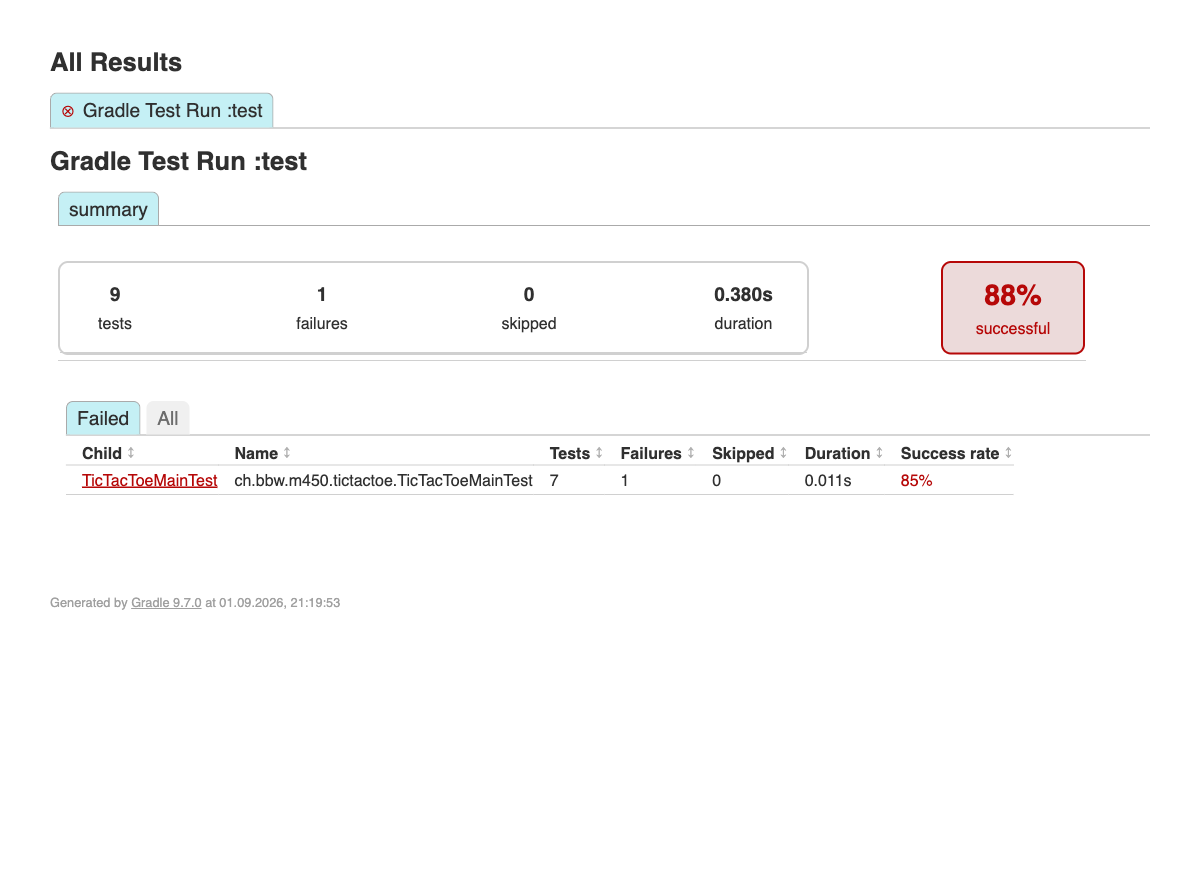
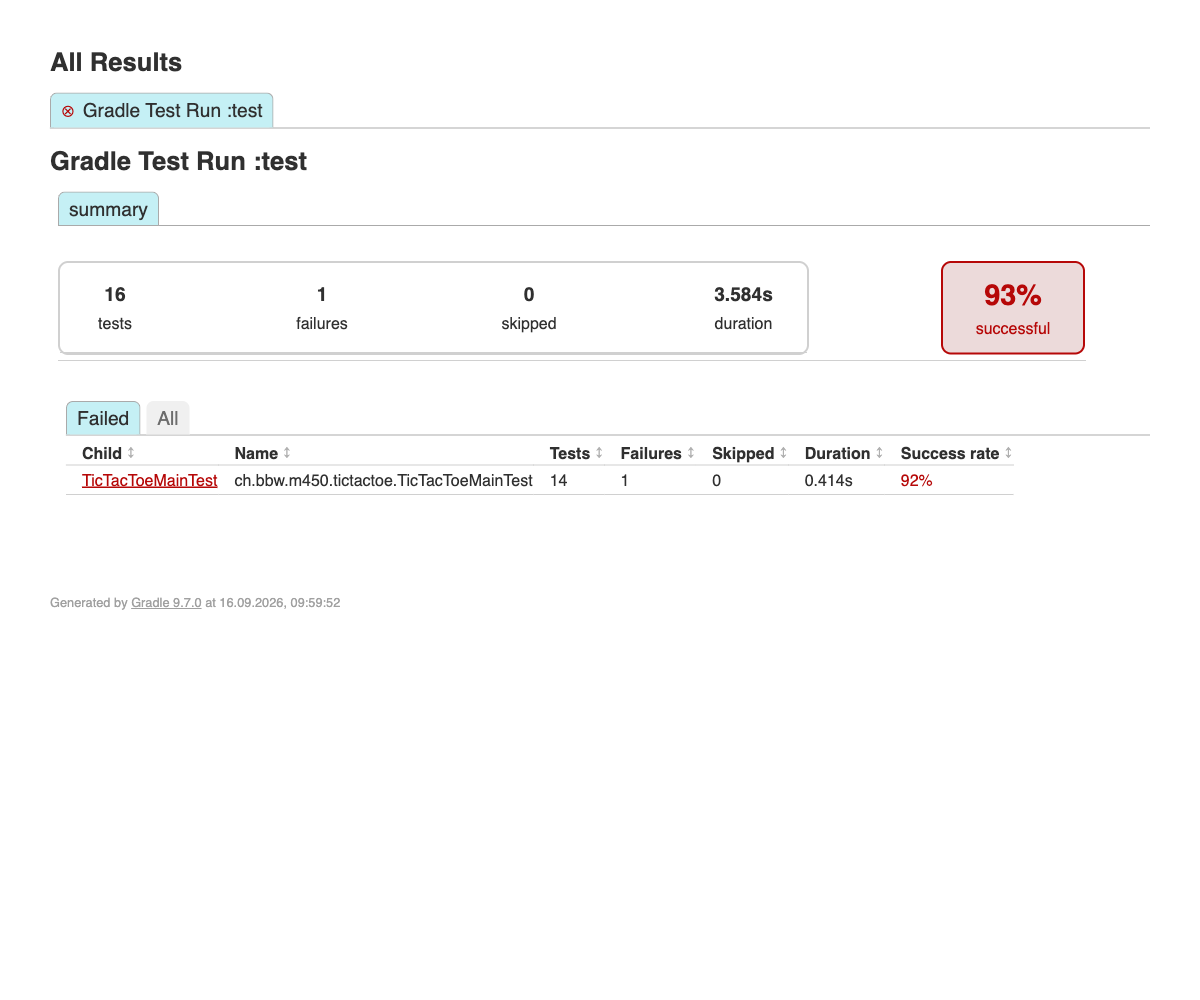
docs: Testkonzept auf aktuellen Stand (36 Tests, 100% Branch-Coverage)

Changed region(s): [[0.0308, 0.0311, 0.9558, 0.6214], [0.0308, 0.6835, 0.2775, 0.7146]]

diff --git a/docs/TESTING.md b/docs/TESTING.md
@@ -1,98 +1,91 @@
-# Testkonzept – TicTacToe (Modul 450)
+# Testkonzept – TicTacTest (Modul 450)
 
-Dieses Dokument beschreibt den **aktuellen Stand** der Test-Suite: was getestet wird,
-mit welchen Werkzeugen und nach welcher Strategie. Es dokumentiert nur die bereits
-umgesetzten Tests, keine geplanten Erweiterungen.
+**Projekt:** TicTacTest (TicTacToe-Spiel-Engine in Java)
+**Dokument-Version:** 0.3 (IST)
+**Autor / Rolle:** Duarte Santos – Entwickler = Tester (bewertete Einzelarbeit)
+**Repository:** `DuarteSantos8/450-tictactest-mvk`
 
-## 1. Ziel und Testgegenstand
+Dieses Dokument beschreibt den **aktuellen IST-Zustand** der Test-Suite: was getestet wird,
+mit welchen Werkzeugen, nach welcher Strategie und mit welchen Erfolgskriterien. Es
+dokumentiert nur die bereits umgesetzten Tests, keine geplanten Erweiterungen.
 
-Getestet wird die Spiel-Engine in `TicTacToeMain`:
+## 1. Einleitung
 
-- **`isWin(Stone[] board, Stone color)`** – die Sieg-Erkennung: hat eine Farbe drei in
-  einer Linie? Das ist eine reine Funktion über ein beliebiges Brett und der Kern der
-  Test-Suite.
+Getestet wird das ganze Spiel: die Spiel-Engine `TicTacToeMain` und alle Player.
+
+- **`isWin(Stone[] board, Stone color)`** – Sieg-Erkennung: hat eine Farbe drei in einer
+  Linie? Eine reine Funktion über ein beliebiges Brett und Herzstück der Test-Suite.
 - **`play(TicTacToePlayer xPlayer, TicTacToePlayer oPlayer)`** – der Spielablauf: eine
-  komplette Partie sowie die Vorbedingung, dass beide Spieler verschieden sein müssen.
+  komplette Partie, Sieg, Unentschieden, ungültige Züge und die Vorbedingung, dass beide
+  Spieler verschieden sein müssen.
+- **`toString(...)`** und **`main(...)`** – Bildschirmausgabe und Programmstart.
+- **`HumanPlayer`** (liest von der Tastatur), **`GreedyPlayer`** und der neue, perfekt
+  spielende **`PerfectPlayer`** (Minimax-Algorithmus).
 
-Nicht Teil des aktuellen Stands sind `HumanPlayer` (liest von der Tastatur) und
-`TicTacToeMain.toString(...)` (reine Bildschirmausgabe) – diese werden noch nicht
-automatisiert getestet.
+## 2. Testziele
 
-Werkzeuge: **JUnit 5** (Jupiter, verwaltet über `junit-bom:5.11.4`) und **AssertJ 3.27.7**,
-gebaut mit **Gradle**.
+Die Ziele sind nummeriert, damit die Testfälle (Abschnitt 7) darauf verweisen können.
 
-## 2. Teststrategie
+- **TZ-01:** `isWin` erkennt alle acht möglichen Siegeslinien für die richtige Farbe.
+- **TZ-02:** `isWin` meldet für Bretter ohne Linie (oder für die falsche Farbe) korrekt „kein Sieg".
+- **TZ-03:** `play` spielt eine vollständige Partie zweier `GreedyPlayer`; der Startspieler X gewinnt.
+- **TZ-04:** `play` weist zwei identische Spieler-Instanzen mit einer `IllegalArgumentException` ab.
+- **TZ-05:** `play` erkennt ein Unentschieden und bricht bei ungültigen Zügen mit einer
+  `IllegalStateException` ab.
+- **TZ-06:** Ein-/Ausgabe funktioniert: `HumanPlayer` liest die Eingabe, `toString` und `main`
+  geben das Brett richtig aus (StdIn/StdOut-Tests mit Pioneer).
+- **TZ-07:** Der `PerfectPlayer` verliert nie und blockt, wenn der Gegner gewinnen könnte.
+- **TZ-08:** Mindestens 90 % Branch-Coverage (wird im Build erzwungen).
 
-- **Given-When-Then** als Namens- und Aufbauschema: jeder Testmethodenname sagt Ausgangslage,
+## 3. Teststrategie und Teststufen
+
+**Teststufe:** automatisierte **Unit-Tests** (JUnit + AssertJ). Dazu kommen:
+
+- **StdIn/StdOut-Tests mit Pioneer:** `@StdIo` ersetzt die Tastatur-Eingabe und fängt die
+  Konsolen-Ausgabe ab (`HumanPlayerTest`, `main` und `play` in `TicTacToeMainTest`).
+- **Property-based Tests mit jqwik** (zusätzliches Testframework): jqwik erzeugt viele
+  zufällige Eingaben und prüft, dass eine Regel immer stimmt (`PerfectPlayerProperties`).
+- **Mutation Testing mit PITest:** PITest baut absichtlich Fehler in den Code ein (z.B. `<`
+  statt `<=`) und schaut, ob ein Test rot wird. Wird kein Test rot, ist der Test zu schwach.
+- **Coverage-Verification mit JaCoCo:** der Build schlägt fehl, wenn die Branch-Coverage
+  unter 90 % fällt.
+
+Angewendete Prinzipien:
+
+- **Given-When-Then** als Namens- und Aufbauschema: der Methodenname nennt Ausgangslage,
   Aktion und Erwartung; im Rumpf sind die drei Blöcke durch Leerzeilen getrennt.
 - **AssertJ fluent-Assertions** statt roher `assertTrue(...)`: die Testklasse implementiert
   `WithAssertions`, damit `assertThat(...)` und `assertThatThrownBy(...)` direkt verfügbar sind.
-- **Fixtures für Isolation**: benannte Board-Konstanten statt magischer Strings, und vor jeder
-  Testmethode frische Spieler-Instanzen.
-- **Parameterized Test gegen Coderepetition**: die acht Siegeslinien und die Nicht-Sieg-Fälle
+- **Fixtures für Isolation:** benannte Board-Konstanten statt magischer Strings und vor jeder
+  Testmethode frische Spieler-Instanzen (`@BeforeEach`).
+- **Parameterized Test gegen Coderepetition:** die acht Siegeslinien und die Nicht-Sieg-Fälle
   laufen über *eine* Methode statt über je einen Test pro Brett.
 
-## 3. Setup (JUnit 5 + AssertJ)
+### Fixtures und Helper
 
-Gradle-Projekt (`build.gradle`) mit folgenden Test-Abhängigkeiten:
-
-```groovy
-dependencies {
-    testImplementation platform('org.junit:junit-bom:5.11.4')
-    testImplementation 'org.junit.jupiter:junit-jupiter'
-    testImplementation 'org.assertj:assertj-core:3.27.7'
-    testRuntimeOnly 'org.junit.platform:junit-platform-launcher'
-}
-
-test {
-    useJUnitPlatform()
-}
-```
-
-Tests ausführen: `./gradlew test`
-Report danach unter: `build/reports/tests/test/index.html`
-
-Der Parameterized Test braucht keine zusätzliche Abhängigkeit: `org.junit.jupiter:junit-jupiter`
-ist ein Sammel-Artefakt und enthält `junit-jupiter-params` bereits.
-
-## 4. Dummy-Tests
-
-Datei: [`DummyTest.java`](../src/test/java/ch/bbw/m450/tictactoe/DummyTest.java)
-Zweck: rein technischer Nachweis, dass JUnit 5 und AssertJ korrekt eingebunden sind (keine TicTacToe-Logik).
-
-| Test | Given | When | Then |
-|---|---|---|---|
-| `dummyJUnitTest` | zwei Ganzzahlen 1 und 1 | die Summe gebildet wird | ist das Ergebnis 2 (geprüft mit JUnit `assertTrue`) |
-| `dummyAssertJTest` | zwei Ganzzahlen 1 und 1 | die Summe gebildet wird | ist das Ergebnis 2 (geprüft mit AssertJ `assertThat(...).isEqualTo(...)`) |
-
-## 5. Fixtures und Helper
-
-Datei: [`TicTacToeMainTest.java`](../src/test/java/ch/bbw/m450/tictactoe/TicTacToeMainTest.java)
-
-Der Testcode benutzt zwei Arten von Fixtures – also festen Ausgangszuständen, die jeder Test gleich vorfindet – und einen Helper. Alle drei stehen in der Testklasse selbst, weil sie ausserhalb der Tests niemandem nützen.
-
-**Board-Fixtures** – benannte Konstanten statt magischer Strings mitten im Test. Ein Brett wird als Muster geschrieben, `X` = Kreuz, `O` = Kreis, `.` = leeres Feld; die Leerzeichen trennen nur die drei Zeilen:
+**Board-Fixtures** – benannte Konstanten. Ein Brett wird als Muster geschrieben, `X` = Kreuz,
+`O` = Kreis, `.` = leeres Feld; die Leerzeichen trennen nur die drei Zeilen:
 
 ```java
 private static final String DIAGONAL_X_WINS = "XOO OX. XOX";
 private static final String DRAW_BOARD = "XOX XXO OXO";
 ```
 
-**Spieler-Fixture** – `@BeforeEach setUp()` legt vor *jeder* Testmethode zwei frische `GreedyPlayer` an, damit kein Test von einer Partie eines anderen Tests beeinflusst wird:
+**Spieler-Fixture** – `@BeforeEach setUp()` legt vor *jeder* Testmethode zwei frische
+`GreedyPlayer` an, damit kein Test von einer Partie eines anderen Tests beeinflusst wird.
 
-```java
-@BeforeEach
-void setUp() {
-    xPlayer = new GreedyPlayer();
-    oPlayer = new GreedyPlayer();
-}
-```
+**Helper** – `Boards.toBoard(...)` übersetzt so ein Muster in das `Stone[]` mit neun Feldern,
+das das Spiel erwartet. Er liegt in einer eigenen Klasse, damit alle Testklassen ihn benutzen
+können (keine Coderepetition). Bei falscher Länge oder unbekanntem Zeichen wirft er eine
+`IllegalArgumentException`.
 
-**Helper** – `toBoard(...)` übersetzt so ein Muster in das `Stone[]` mit neun Feldern, das `TicTacToeMain.isWin(...)` erwartet. Ohne den Helper müsste in jedem Test ein Array von Hand aufgezählt werden, was das Brett unlesbar macht. Passt die Länge nicht oder steht ein unbekanntes Zeichen im Muster, wirft der Helper eine `IllegalArgumentException`.
+**Test-Player als Lambda** – `TicTacToePlayer` hat nur eine Methode, darum kann man einen
+Test-Player einfach als Lambda schreiben, z.B. einen „schummelnden“ Player, der immer auf
+Feld `-1` spielt. So braucht es kein Mocking-Framework.
 
-## 6. Parameterized Test
+### Parameterized Test
 
-Die Sieg-Erkennung wird nicht mehr mit einem Test pro Brett geprüft, sondern mit *einer* Testmethode über viele Board-Konstellationen:
+Die Sieg-Erkennung (TZ-01 / TZ-02) wird mit *einer* Methode über viele Konstellationen geprüft:
 
 ```java
 @ParameterizedTest(name = "{1} on \"{0}\" -> {2}")
@@ -107,67 +100,126 @@ void given_aBoard_when_isWinIsChecked_then_returnsWhetherThatColorHasALine(Strin
 }
 ```
 
-`@MethodSource("boardConstellations")` verweist auf eine statische Methode, die einen `Stream<Arguments>` liefert. Jedes `Arguments.of(muster, farbe, erwartet)` wird zu einem eigenen Testlauf, dessen drei Werte der Reihe nach in den drei Parametern landen. Aus 12 Einträgen werden also 12 Testläufe, die im Report einzeln erscheinen – dank `name = "{1} on \"{0}\" -> {2}"` mit lesbarem Titel wie `CROSS on "XXX ... ..." -> true`. Schlägt einer fehl, steht sofort da, welches Brett schuld ist.
+## 4. Testobjekte und Testabdeckung
 
-Geprüfte Konstellationen:
+| Testobjekt | Abgedeckt? | Testklasse | Bemerkung |
+|---|---|---|---|
+| `TicTacToeMain.isWin(...)` | ja | `TicTacToeMainTest` | alle acht Siegeslinien + Nicht-Sieg-Fälle |
+| `TicTacToeMain.play(...)` | ja | `TicTacToeMainTest` | Sieg, Unentschieden, ungültige Züge, gleiche Spieler |
+| `TicTacToeMain.toString(...)` | ja | `TicTacToeMainTest` | Ausgabe ohne Farbcodes verglichen |
+| `TicTacToeMain.main(...)` | ja | `TicTacToeMainTest` | mit Pioneer: Eingabe `3, 4, 5` → Mensch gewinnt |
+| `HumanPlayer` | ja | `HumanPlayerTest` | mit Pioneer: Eingabe lesen, Ausgabe prüfen, falsche Eingabe |
+| `GreedyPlayer` | ja | `GreedyPlayerTest` | volles Brett → Exception; sonst über `play(...)` |
+| `PerfectPlayer` | ja | `PerfectPlayerTest`, `PerfectPlayerProperties` | gewinnt gegen Greedy, blockt, verliert nie (jqwik) |
+| `Stone.opponent()` | ja | `TicTacToeMainTest` | beide Farben |
 
-| # | Muster | geprüfte Farbe | Erwartung | Was abgedeckt wird |
+**Gemessene Abdeckung (JaCoCo):**
+
+| Metrik | Wert | Ziel |
+|---|---|---|
+| Branch-Coverage | **100 %** (94 von 94) | min. 90 % (im Build erzwungen) |
+| Line-Coverage | **98.5 %** (67 von 68) | – |
+| Mutation Score (PITest) | **99 %** (72 von 73 Mutanten gekillt) | – |
+
+Die eine nicht abgedeckte Zeile ist der unsichtbare Standard-Konstruktor von `TicTacToeMain`
+(die Klasse hat nur statische Methoden, darum wird nie ein Objekt davon erstellt).
+
+Der eine überlebende Mutant ändert im `PerfectPlayer` `score > bestScore` zu `score >= bestScore`.
+Dann nimmt der Player bei gleich guten Zügen den letzten statt den ersten – er spielt aber
+genauso perfekt. Das ist ein **äquivalenter Mutant**, den kein Test erkennen kann.
+
+## 5. Testrahmen und Erfolgskriterien
+
+- **Wer testet:** der Entwickler selbst (Einzelarbeit).
+- **Wann wird getestet:** lokal bei jeder Änderung und automatisch bei jedem Push und Pull-Request
+  über GitHub Actions.
+- **Pass-Kriterium:** alle Tests laufen grün durch (`0 failures, 0 errors`) und die
+  Branch-Coverage ist mindestens 90 %.
+- **Fail-Kriterium / Abbruchbedingung:** ein einziger roter Test oder zu wenig Coverage lässt
+  die CI-Pipeline fehlschlagen; ein Pull-Request wird erst nach grünem Build gemergt.
+
+## 6. Testumgebung und Testinfrastruktur
+
+- **Sprache / Runtime:** Java 25 (Azul Zulu, bereitgestellt über den DevContainer).
+- **Build-Tool:** Gradle 9.7 (über den `./gradlew`-Wrapper).
+- **Testframeworks (aktuellste Versionen):** JUnit 6.1.3 (`junit-bom`), AssertJ 3.27.7,
+  JUnit Pioneer 2.3.0, jqwik 1.10.1, JaCoCo 0.8.15, PITest 1.30.0.
+- **Lokale Ausführung:**
+  - `./gradlew test` → Test-Report unter `build/reports/tests/test/index.html`,
+    Coverage-Report unter `build/reports/jacoco/test/html/index.html`
+  - `./gradlew check` → zusätzlich die Coverage-Verification (min. 90 % Branch)
+  - `./gradlew pitest` → Mutation-Report unter `build/reports/pitest/index.html`
+- **CI:** `.github/workflows/build.yml` (Schritte `build` und `test`, im DevContainer-Image).
+  Der Test-Job führt `./gradlew check pitest` aus und speichert Test-, Coverage- und
+  PITest-Report bei jedem Commit als Artifacts.
+- Der Parameterized Test braucht keine Zusatz-Abhängigkeit: `org.junit.jupiter:junit-jupiter`
+  ist ein Sammel-Artefakt und enthält `junit-jupiter-params` bereits.
+
+## 7. Testfallbeschreibungen
+
+| ID | Zielbezug | Voraussetzung | Schritt | Erwartetes Ergebnis |
 |---|---|---|---|---|
-| 1 | `XXX ... ...` | X | `true` | oberste Reihe (0-1-2) |
-| 2 | `... OOO ...` | O | `true` | mittlere Reihe (3-4-5) |
-| 3 | `... ... XXX` | X | `true` | unterste Reihe (6-7-8) |
-| 4 | `O.. O.. O..` | O | `true` | linke Spalte (0-3-6) |
-| 5 | `.X. .X. .X.` | X | `true` | mittlere Spalte (1-4-7) |
-| 6 | `..O ..O ..O` | O | `true` | rechte Spalte (2-5-8) |
-| 7 | `XOO OX. XOX` | X | `true` | Diagonale (0-4-8) |
-| 8 | `..O .O. O..` | O | `true` | Gegendiagonale (2-4-6) |
-| 9 | `... ... ...` | X | `false` | leeres Brett |
-| 10 | `XOX XXO OXO` | X | `false` | Unentschieden, X hat keine Linie |
-| 11 | `XOX XXO OXO` | O | `false` | dasselbe Brett aus Sicht von O |
-| 12 | `OOO XX. .X.` | X | `false` | eine Reihe gewinnt nur für die eigene Farbe |
+| TC-01 | TZ-01 | Brett `XXX ... ...` | `isWin(board, CROSS)` | `true` (oberste Reihe) |
+| TC-02 | TZ-01 | Brett `..O ..O ..O` | `isWin(board, CIRCLE)` | `true` (rechte Spalte) |
+| TC-03 | TZ-01 | Brett `XOO OX. XOX` | `isWin(board, CROSS)` | `true` (Diagonale 0-4-8) |
+| TC-04 | TZ-02 | leeres Brett `... ... ...` | `isWin(board, CROSS)` | `false` |
+| TC-05 | TZ-02 | Brett `OOO XX. .X.` | `isWin(board, CROSS)` | `false` (Linie gehört O, nicht X) |
+| TC-06 | TZ-03 | zwei frische `GreedyPlayer` | `play(xPlayer, oPlayer)` | Rückgabe `CROSS` (X gewinnt) |
+| TC-07 | TZ-04 | dieselbe Spieler-Instanz als X und O | `play(xPlayer, xPlayer)` | `IllegalArgumentException` |
+| TC-08 | TZ-05 | zwei `PerfectPlayer` | `play(...)` | Rückgabe `null`, Ausgabe „it's a draw!“ |
+| TC-09 | TZ-05 | O spielt auf `-1`, `9` oder das besetzte Feld `0` | `play(greedy, cheater)` | `IllegalStateException` |
+| TC-10 | TZ-06 | Eingabe `" 4 "` | `HumanPlayer.play(...)` | Rückgabe `4`, Frage „where to to put…“ wird ausgegeben |
+| TC-11 | TZ-06 | Eingabe `abc` | `HumanPlayer.play(...)` | `NumberFormatException` |
+| TC-12 | TZ-06 | Brett `X.. .O. ...` | `toString(board)` | `X  1  2` / `3  O  5` / `6  7  8` |
+| TC-13 | TZ-06 | Eingabe `3, 4, 5` | `main(...)` | Ausgabe „...and the winner is: CROSS“ |
+| TC-14 | TZ-07 | `GreedyPlayer` gegen `PerfectPlayer` (beide Reihenfolgen) | `play(...)` | `PerfectPlayer` gewinnt |
+| TC-15 | TZ-07 | Brett `XX. .O. ...`, O ist dran | `PerfectPlayer.play(...)` | `2` (blockt) |
+| TC-16 | TZ-07 | zufälliger Gegner (50 Spiele, jqwik) | `play(random, perfect)` | der Zufalls-Player gewinnt nie |
+| TC-17 | TZ-08 | – | `./gradlew check` | Build grün, Branch-Coverage ≥ 90 % |
 
-Die Fälle 1–8 decken alle acht möglichen Siegeslinien ab. Dass manche dieser Bretter in einer echten Partie nie vorkommen können (`XXX ... ...` enthält kein einziges `O`), ist Absicht: `isWin` ist eine reine Funktion über ein beliebiges Brett, deshalb steht pro Siegeslinie das kleinstmögliche Muster.
+TC-01 bis TC-05 sind Beispiele aus den 12 Konstellationen des Parameterized Tests
+(`boardConstellations`); die vollständige Liste steht in `TicTacToeMainTest.java`.
 
-## 7. Einzeltests (Given-When-Then)
+## 8. Testplan und Zuständigkeiten
 
-Was sich nicht sinnvoll parametrisieren lässt, bleibt als eigener Test bestehen – beide benutzen die Spieler-Fixture:
+- **Zuständig:** Duarte Santos (Erstellung, Ausführung und Wartung der Tests).
+- **Ausführung:** automatisiert bei jedem Push / Pull-Request über GitHub Actions; zusätzlich
+  lokal vor jedem Commit.
+- **Ergebnisdokumentation:** Test-Report und JaCoCo-Coverage werden in der CI als Artifact
+  gespeichert; die Coverage-Entwicklung ist als Time-Series auf GitHub Pages sichtbar.
 
-| # | Test | Given | When | Then |
-|---|---|---|---|---|
-| 1 | `given_twoGreedyPlayers_when_aGameIsPlayed_then_theStartingPlayerWins` | zwei `GreedyPlayer`, die beide immer das oberste freie Feld wählen | eine komplette Partie gespielt wird (`TicTacToeMain.play`) | gewinnt der startende Spieler X über die Diagonale 0-4-8 |
-| 2 | `given_theSamePlayerTwice_when_aGameIsStarted_then_throwsIllegalArgumentException` | dieselbe `GreedyPlayer`-Instanz als X- und O-Spieler übergeben | eine Partie gestartet wird | wird eine `IllegalArgumentException` geworfen |
+## 9. Dummy-Tests
 
-## 8. Testumfang und Ausführung
+Datei: [`DummyTest.java`](../src/test/java/ch/bbw/m450/tictactoe/DummyTest.java) – rein
+technischer Nachweis, dass JUnit 5 und AssertJ korrekt eingebunden sind (keine TicTacToe-Logik,
+je einmal JUnit `assertEquals` und AssertJ `assertThat` nebeneinander).
 
-**Gesamt: 16 Tests** – 2 Dummy-Tests, 12 Läufe des Parameterized Tests und 2 Einzeltests. Die Assertions in `TicTacToeMainTest` laufen alle über AssertJ (`WithAssertions`); im `DummyTest` steht bewusst je einmal JUnit und AssertJ nebeneinander.
+## 10. Testumfang
 
-Lokal ausgeführt mit `./gradlew test` – zuletzt **16 Tests, 0 Fehler** (`DummyTest` 2, `TicTacToeMainTest` 14). Zusätzlich läuft bei jedem Push/Pull-Request die GitHub-Actions-Pipeline (`.github/workflows/build.yml`) mit den Schritten `build` und `test` in einem eigenen Container-Image; der Build ist grün.
+**Gesamt: 36 Tests**, zuletzt lokal mit `./gradlew check pitest` ausgeführt: **36 Tests, 0 Fehler**.
 
-## 9. Test-Code auf GitHub
+| Testklasse | Anzahl | Inhalt |
+|---|---|---|
+| `DummyTest` | 2 | Nachweis JUnit + AssertJ |
+| `TicTacToeMainTest` | 22 | 12 × Parameterized `isWin`, 3 × ungültiger Zug, 7 Einzeltests |
+| `HumanPlayerTest` | 3 | StdIn/StdOut mit Pioneer |
+| `GreedyPlayerTest` | 1 | volles Brett |
+| `PerfectPlayerTest` | 6 | 2 Spiele gegen Greedy, 3 × blocken, volles Brett |
+| `PerfectPlayerProperties` | 2 | jqwik-Properties (je 50 zufällige Durchläufe) |
 
-Repository: `DuarteSantos8/450-tictactest-mvk`
+Bei jedem Push/Pull-Request läuft zusätzlich die GitHub-Actions-Pipeline; der Build ist grün.
 
-- [`TicTacToeMainTest.java`](https://github.com/DuarteSantos8/450-tictactest-mvk/blob/main/src/test/java/ch/bbw/m450/tictactoe/TicTacToeMainTest.java)
-- [`DummyTest.java`](https://github.com/DuarteSantos8/450-tictactest-mvk/blob/main/src/test/java/ch/bbw/m450/tictactoe/DummyTest.java)
+## 11. Screenshots
 
-## 10. Screenshot – alle Tests erfolgreich
+Alle Tests erfolgreich (36/36):
 
-Ausgeführt mit `./gradlew test`, Report über den Browser geöffnet und als Screenshot gesichert. Die Screenshots in diesem und im nächsten Abschnitt stammen vom Stand *vor* der Umstellung auf Fixtures und Parameterized Tests, als die Suite noch 9 Tests umfasste.
+![Alle Tests erfolgreich (36/36, 100%)](screenshots/all-tests-passing.png)
 
-![Alle Tests erfolgreich (9/9, 100%)](screenshots/all-tests-passing.png)
-
-## 11. Screenshot – ein fehlschlagender Test
-
-Für den Nachweis wurde `emptyBoardIsNoWin()` kurzzeitig manipuliert (`isFalse()` → `isTrue()`), sodass die Assertion fehlschlägt. Danach wurde die Änderung wieder rückgängig gemacht, damit die Test-Suite wieder grün ist.
-
-Übersicht (1 von 9 Tests fehlgeschlagen, 88%):
+Ein bewusst fehlgeschlagener Test (zum Nachweis; danach wieder zurückgesetzt) – Übersicht,
+Klassendetail und Stacktrace:
 
 ![Ein Test schlägt fehl (Übersicht)](screenshots/one-test-failing-overview.png)
 
-Detailansicht der Klasse mit dem fehlgeschlagenen Test:
-
 ![Ein Test schlägt fehl (Klassendetail)](screenshots/one-test-failing-detail.png)
-
-Stacktrace des fehlgeschlagenen Tests:
 
 ![Stacktrace des fehlschlagenden Tests](screenshots/one-test-failing-stacktrace.png)
